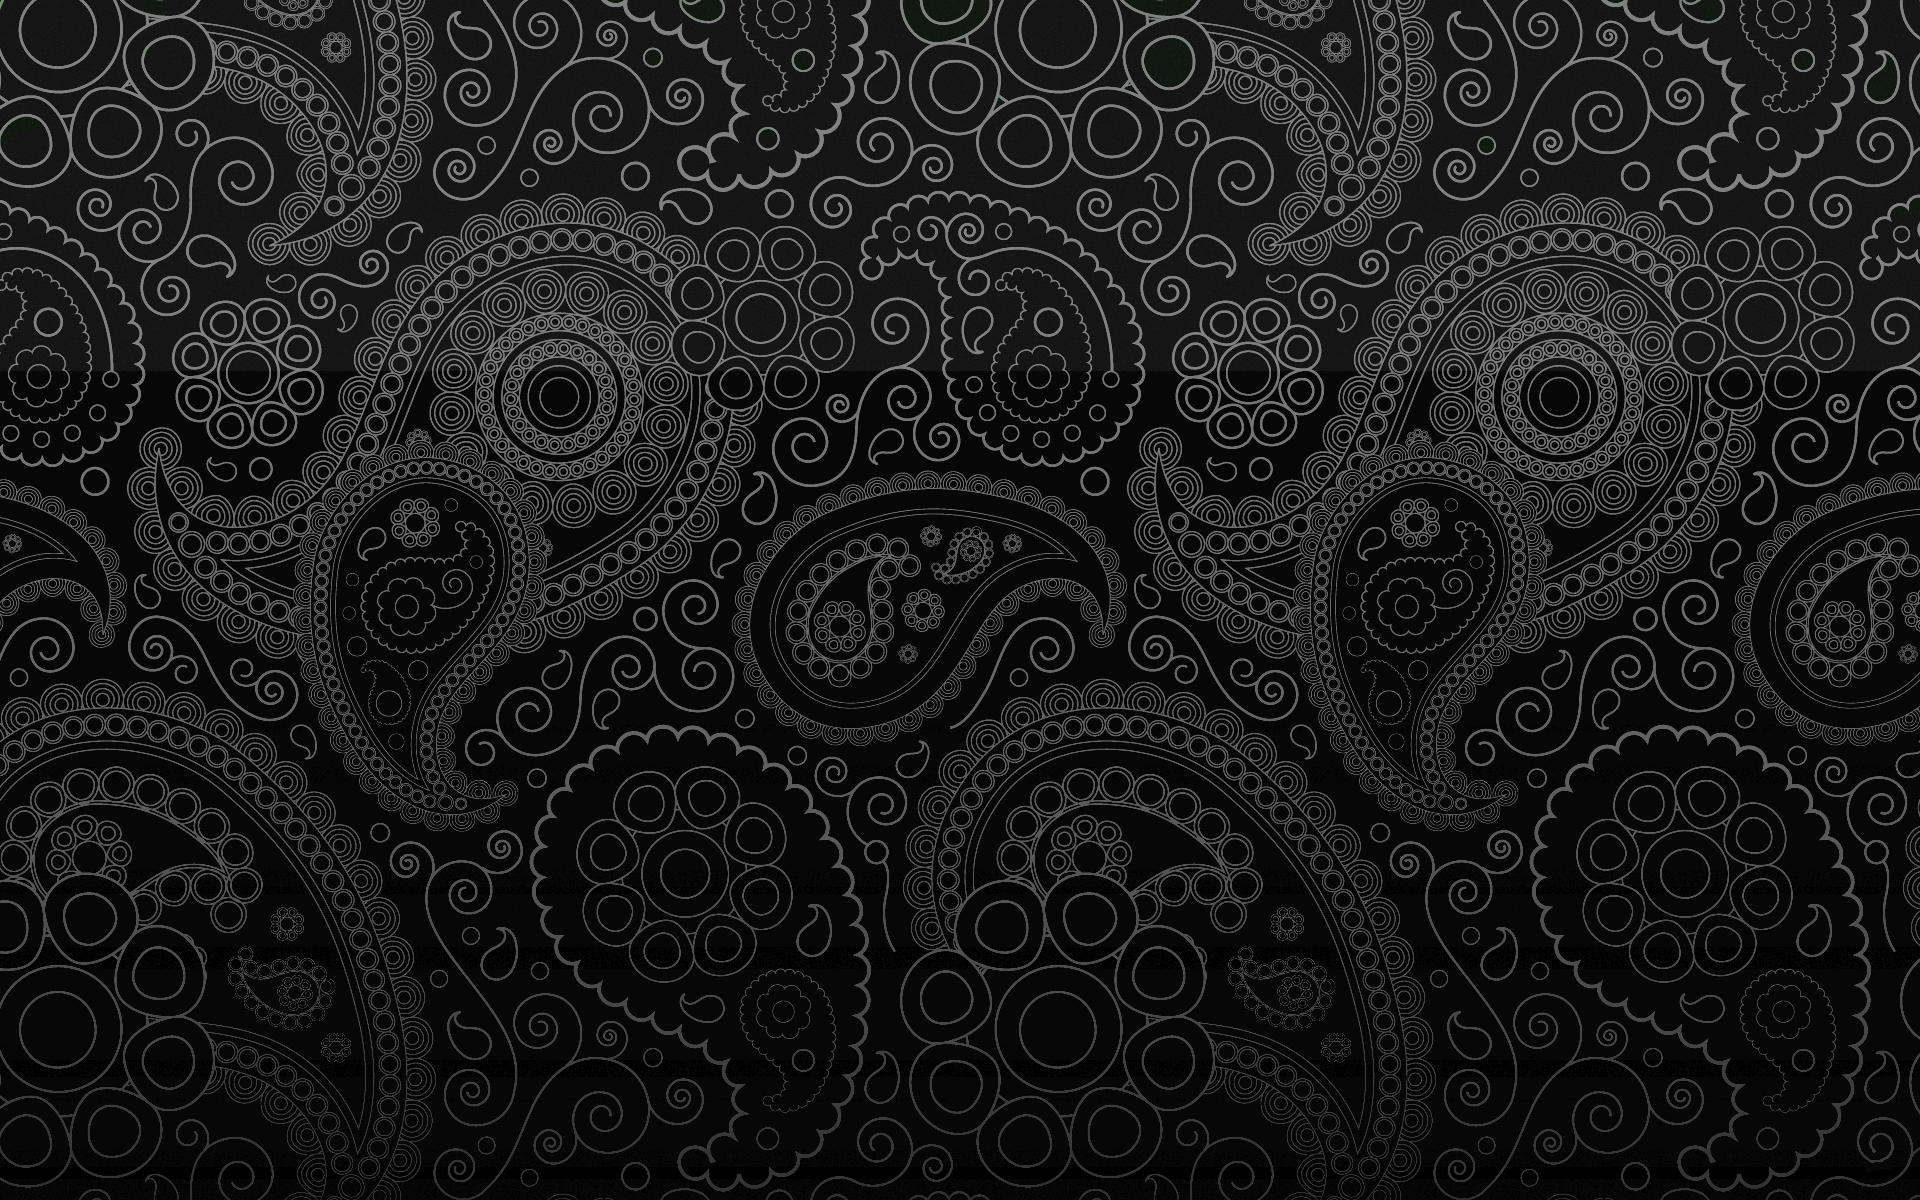
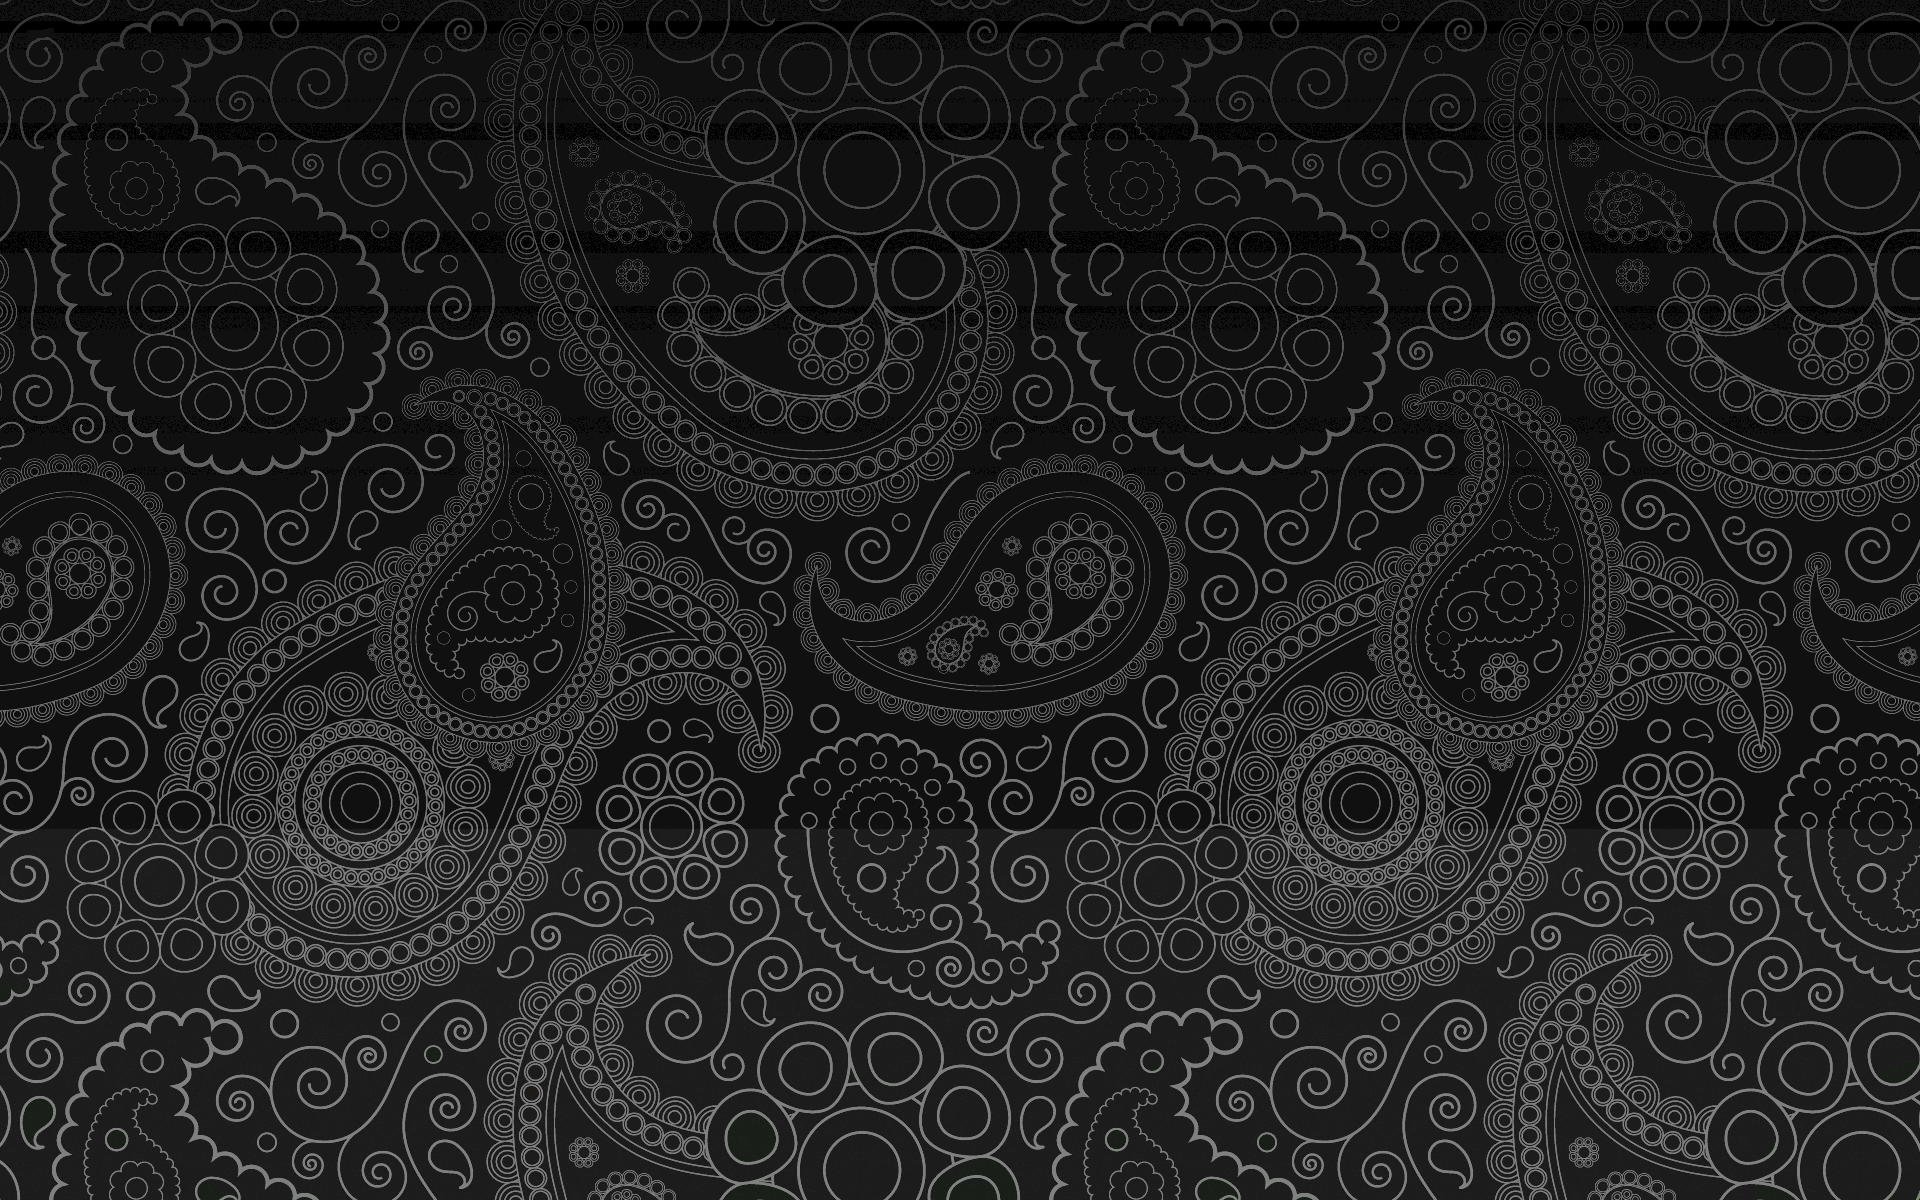
change background

diff --git a/style/style.css b/style/style.css
@@ -32,7 +32,7 @@
 
 body {
 	/*background: #151515;										/* Page background */
-	background-image: url(../images/background.png);
+	background-image: url(../images/background2.jpg);
 	color: #00D5CD;														/* Font color */
 	padding: 150px;													/* Padding between link blocks and edge */
 	font-family: "Museo", "Helvetica Neue", sans-serif;	/* Font */
@@ -42,7 +42,7 @@ body {
 
 a {
 	color: #00D5CD;														/* Link Color */
-	font-size: 23px;												/* Link Size */
+	font-size: 12px;												/* Link Size */
 	text-decoration: none;									/* Remove underlines */
 	font-weight: bold;
 	border-radius: 50px;
@@ -58,9 +58,8 @@ a:hover {
 	float: left;
 	padding: .8em;														/* Padding around link block */
 	width: 200px;														/* Link block width */
-	background: rgba(0, 0, 0, 0.7);
-	border-radius: 15px;
-
+	/*background: rgba(0, 0, 0, 0.6);*/
+	/*background: linear-gradient(to left, rgba(255,255,255,0), rgba(0,0,0,.5));*/
 }
 
 h1 {
@@ -96,7 +95,7 @@ li img {
 	top: .5%;
 	right: 5%;
 	font-size: 2em;
-	background: rgba(0, 0, 0, 0.7);
+	background: linear-gradient(to left, rgba(255,255,255,0), rgba(0,0,0,1));
 }
 
 form {
